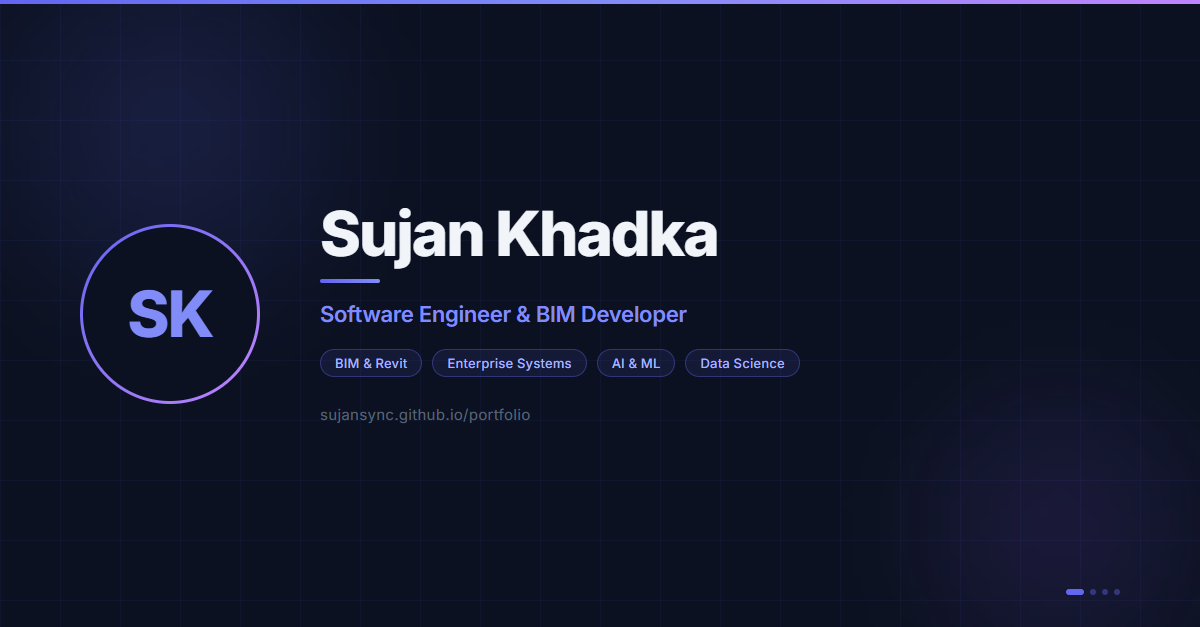
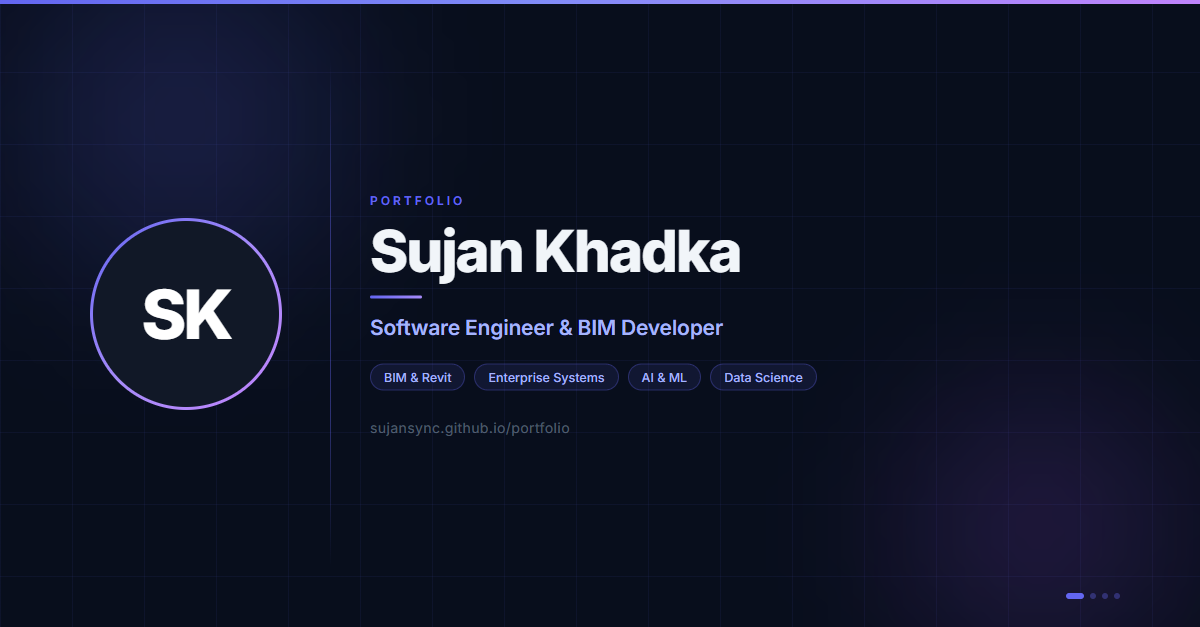
Update OG title/description and fix card image layout
- og:title → "Portfolio", og:description → "Click the link to see my Portfolio"
- Redesign card: white SK monogram on dark avatar, vertical divider separating
  avatar from text block, PORTFOLIO eyebrow label above name

diff --git a/index.html b/index.html
@@ -8,8 +8,8 @@
     <!-- Open Graph / LinkedIn preview -->
     <meta property="og:type" content="website" />
     <meta property="og:url" content="https://sujansync.github.io/portfolio/" />
-    <meta property="og:title" content="Sujan Khadka – Software Engineer | BIM Developer" />
-    <meta property="og:description" content="Portfolio of Sujan Khadka — BIM & Revit, Enterprise Systems, AI & ML, Data Science." />
+    <meta property="og:title" content="Portfolio" />
+    <meta property="og:description" content="Click the link to see my Portfolio." />
     <meta property="og:image" content="https://sujansync.github.io/portfolio/og-image.png" />
     <meta property="og:image:secure_url" content="https://sujansync.github.io/portfolio/og-image.png" />
     <meta property="og:image:type" content="image/png" />
@@ -18,8 +18,8 @@
     <meta property="og:image:alt" content="Sujan Khadka – Software Engineer & BIM Developer portfolio preview" />
     <!-- Twitter Card (also read by LinkedIn) -->
     <meta name="twitter:card" content="summary_large_image" />
-    <meta name="twitter:title" content="Sujan Khadka – Software Engineer | BIM Developer" />
-    <meta name="twitter:description" content="Portfolio of Sujan Khadka — BIM & Revit, Enterprise Systems, AI & ML, Data Science." />
+    <meta name="twitter:title" content="Portfolio" />
+    <meta name="twitter:description" content="Click the link to see my Portfolio." />
     <meta name="twitter:image" content="https://sujansync.github.io/portfolio/og-image.png" />
   </head>
   <body>
